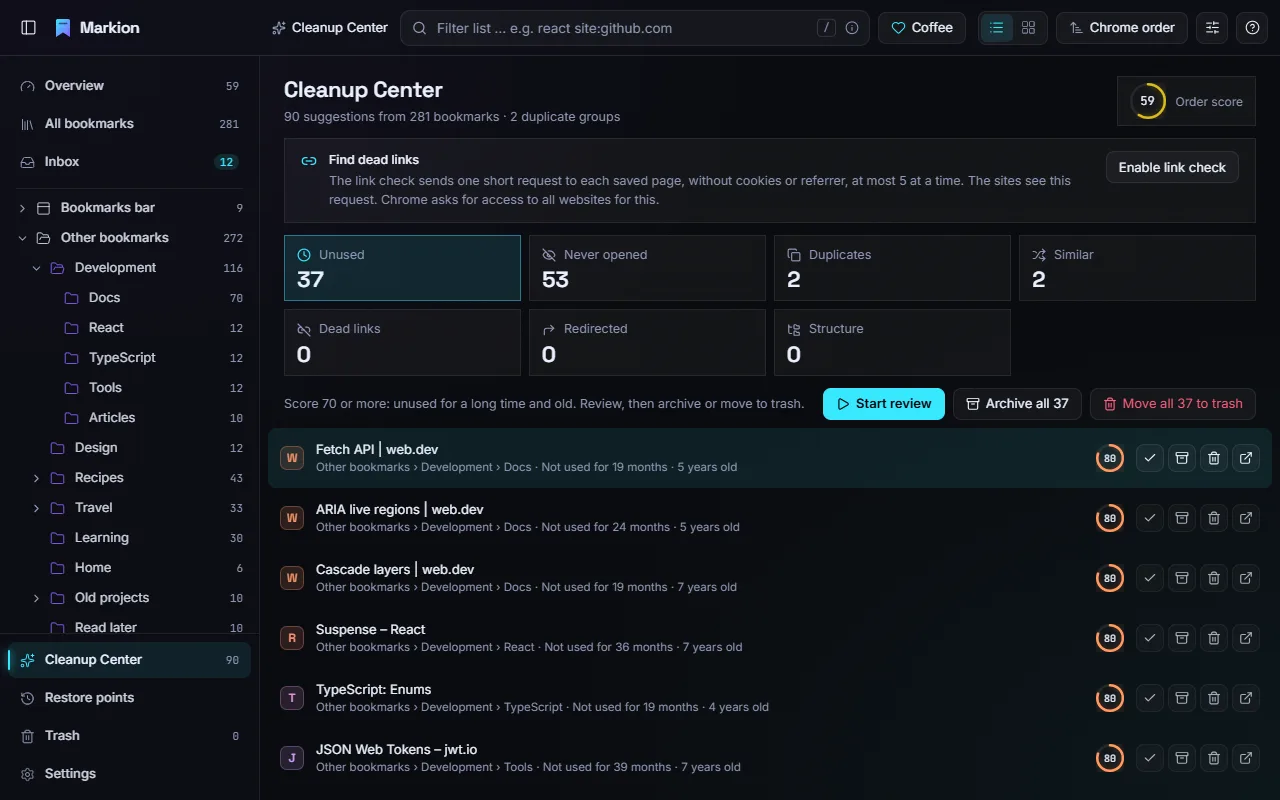
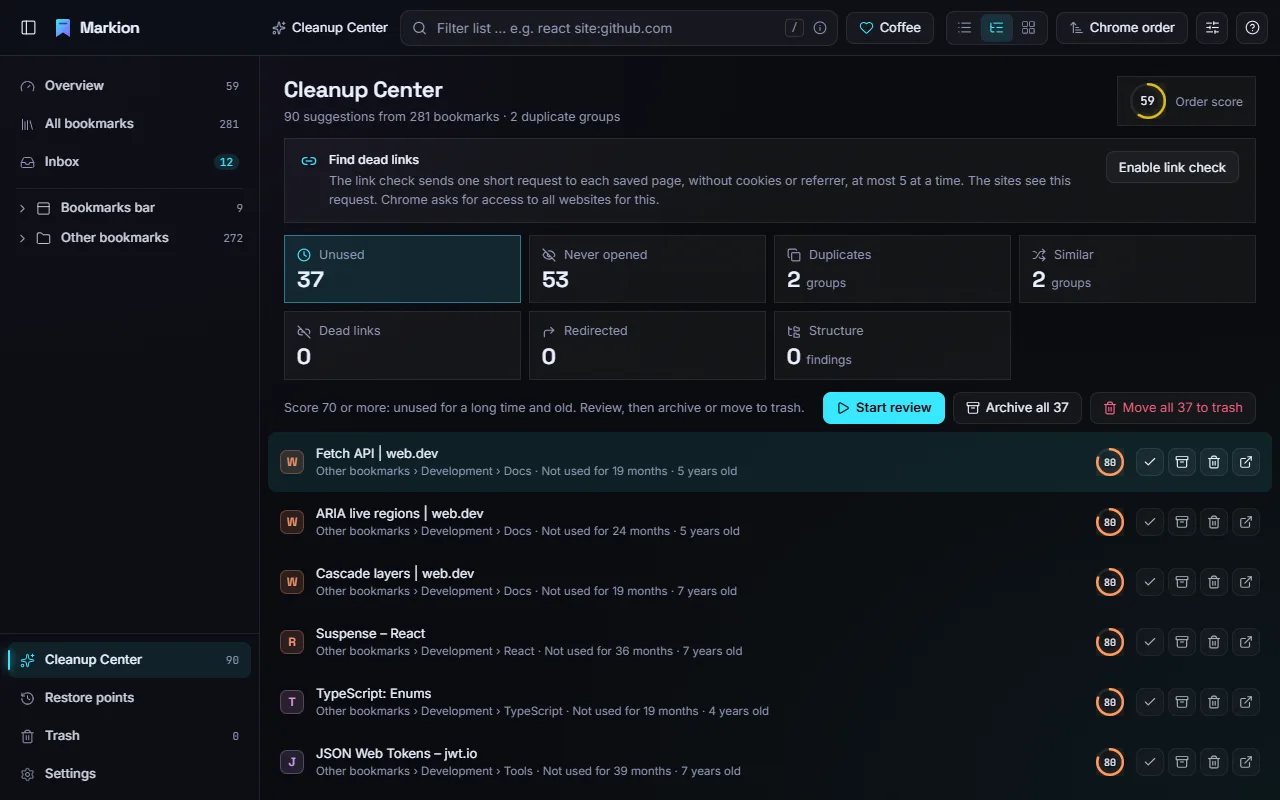
User guide for 1.3.0: tree view, folder picker and themes
New screenshots in Dark Side (S4-01): tree view replaces the list view,
folder tree when moving, collage of the four themes, opaque menus, restore
points with delete, settings with retention and theme.

diff --git a/help/index.html b/help/index.html
@@ -309,22 +309,22 @@
         <h2 id="layout">The workspace</h2>
         <figure>
           <img
-            src="img/1-list.webp"
-            alt="Markion with folder tree, list of bookmarks and detail panel"
+            src="img/1-tree.webp"
+            alt="Markion in tree view with expanded folders, a selected bookmark and the detail panel"
             loading="lazy"
             width="1280"
             height="800"
           />
           <figcaption>
-            Folder tree on the left, list in the middle, details on the right.
+            Sidebar on the left, your bookmarks in tree view in the middle, details on the right.
           </figcaption>
         </figure>
         <ul>
           <li>
             <strong>Top bar</strong>: the path of the current folder, the search field, the
-            <strong>Coffee</strong> button (see <a href="#faq">FAQ</a>), list or card view, sorting,
-            view options (columns, density) and the <strong>?</strong> menu with this guide, the
-            introduction and the shortcut overview.
+            <strong>Coffee</strong> button (see <a href="#faq">FAQ</a>), list, tree or card view,
+            sorting, view options (columns, density) and the <strong>?</strong> menu with this
+            guide, the introduction and the shortcut overview.
           </li>
           <li>
             <strong>Left sidebar</strong>: Overview, All bookmarks, Inbox, your folders, and at the
@@ -332,8 +332,18 @@
             change the width.
           </li>
           <li>
-            <strong>List or cards</strong>: switch with <kbd>V</kbd>. Sort by title, domain, date
-            added, last use or staleness score; “Chrome order” keeps the order you see in Chrome.
+            <strong>List, tree or cards</strong>: switch with <kbd>V</kbd>. Sort by title, domain,
+            date added, last use or staleness score; “Chrome order” keeps the order you see in
+            Chrome. Double-click a bookmark to open it in a new tab; Markion stays open.
+          </li>
+          <li>
+            <strong>Tree view</strong>: shows folders with their subfolders and bookmarks in the
+            middle. Click the arrow or the folder icon to expand or collapse a folder, or use
+            <kbd>→</kbd> and <kbd>←</kbd>.
+            <strong>Expand all</strong> (<kbd>Ctrl</kbd>+<kbd>Shift</kbd>+<kbd>↓</kbd>) and
+            <strong>Collapse all</strong>
+            (<kbd>Ctrl</kbd>+<kbd>Shift</kbd>+<kbd>↑</kbd>) are at the top. Drag bookmarks and
+            folders anywhere in the tree, also from the sidebar. Search results stay a flat list.
           </li>
           <li>
             <strong>Detail panel</strong>: opens when you select a bookmark. It shows the folder,
@@ -504,7 +514,9 @@
             over a closed folder opens it after a moment. <kbd>Esc</kbd> cancels the drag.
           </li>
           <li>
-            Press <kbd>M</kbd> to move the selection with the palette: type a folder name and press
+            Press <kbd>M</kbd> to move the selection: a folder tree opens with your recently used
+            folders on top. Use the arrow keys (<kbd>→</kbd>/<kbd>←</kbd> expand and collapse), or
+            type a folder name to see the matches with their parent folders, then press
             <kbd>Enter</kbd>.
           </li>
           <li>
@@ -524,6 +536,18 @@
             folder path.
           </li>
         </ul>
+        <figure>
+          <img
+            src="img/move-picker.webp"
+            alt="Two bookmarks selected, with the folder tree for moving them filtered to the folder Articles"
+            loading="lazy"
+            width="1280"
+            height="800"
+          />
+          <figcaption>
+            Moving with <kbd>M</kbd>: type to find the target folder in the tree.
+          </figcaption>
+        </figure>
         <h3>Edit and create</h3>
         <ul>
           <li><kbd>F2</kbd> renames a bookmark or folder or edits its address.</li>
@@ -699,6 +723,11 @@
             </tr>
           </tbody>
         </table>
+        <p>
+          Hover over a category tile (or reach it with <kbd>Tab</kbd>) to see what its number
+          counts. Duplicates and similar addresses count <em>groups</em>, structure counts
+          <em>findings</em>; dead links and redirects need the optional link check.
+        </p>
         <h3>The staleness score</h3>
         <p>
           Each bookmark gets a score from 0 to 100. It rises the longer you have not used a
@@ -787,7 +816,8 @@
         <p>
           The overview (<kbd>G</kbd> then <kbd>O</kbd>) shows the <strong>order score</strong>, a
           number from 0 to 100 for how tidy your collection is, and tiles with key figures: total,
-          folders, never opened, stale, duplicates, inbox and dead links. Click a tile to go to it.
+          folders, never opened, stale, duplicates, inbox and dead links. Click a tile to go to it;
+          hover over a tile or the score to see what it means and how the score is calculated.
         </p>
         <p>
           The <strong>domain explorer</strong> lists every domain with its number of bookmarks.
@@ -822,7 +852,9 @@
           <li>
             <strong>Restore points</strong> (<kbd>G</kbd> then <kbd>R</kbd>): Markion saves a copy
             of all bookmarks daily when something changed, and always before bulk actions. They are
-            kept for 14 days. You can restore everything or individual folders, and
+            kept for 3 to 14 days (14 by default, adjustable in Settings); the newest one is always
+            kept. You can restore everything or individual folders (<kbd>Enter</kbd>), delete
+            restore points you no longer need (<kbd>Del</kbd>, with undo), and
             <strong>Save now</strong> creates one right away.
           </li>
           <li>
@@ -837,7 +869,7 @@
         <figure>
           <img
             src="img/snapshots.webp"
-            alt="The list of restore points"
+            alt="The list of restore points, an older one selected with its delete and restore buttons"
             loading="lazy"
             width="1280"
             height="800"
@@ -857,8 +889,13 @@
             defaults.
           </li>
           <li>
-            <strong>Inbox, archive and trash</strong>: which folders act as inbox and archive, and
-            how many days deleted items stay in the trash.
+            <strong>Inbox, archive and trash</strong>: which folders act as inbox and archive, how
+            many days deleted items stay in the trash, and how long restore points are kept.
+            Shortening that period asks before deleting older restore points.
+          </li>
+          <li>
+            <strong>Theme</strong>: Dark Side (default), Snow Glow (light), Cyber Phunk or Miami
+            Nights. The change applies right away.
           </li>
           <li>
             <strong>Behavior and appearance</strong>: whether <kbd>Enter</kbd> opens a bookmark in
@@ -881,12 +918,22 @@
         <figure>
           <img
             src="img/settings.webp"
-            alt="The settings page"
+            alt="The settings page with trash and restore point retention and the theme choice"
             loading="lazy"
             width="1280"
             height="800"
           />
-          <figcaption>Settings.</figcaption>
+          <figcaption>Settings: how long items are kept, and the theme.</figcaption>
+        </figure>
+        <figure>
+          <img
+            src="img/themes.webp"
+            alt="The same tree view in the four themes Dark Side, Snow Glow, Cyber Phunk and Miami Nights"
+            loading="lazy"
+            width="1280"
+            height="888"
+          />
+          <figcaption>The four themes.</figcaption>
         </figure>
 
         <h2 id="shortcuts">Keyboard shortcuts</h2>
@@ -970,7 +1017,15 @@
             </tr>
             <tr>
               <td><kbd>V</kbd></td>
-              <td>List or cards</td>
+              <td>List, tree or cards</td>
+            </tr>
+            <tr>
+              <td><kbd>Ctrl</kbd>+<kbd>Shift</kbd>+<kbd>↓</kbd></td>
+              <td>Expand all (tree view)</td>
+            </tr>
+            <tr>
+              <td><kbd>Ctrl</kbd>+<kbd>Shift</kbd>+<kbd>↑</kbd></td>
+              <td>Collapse all (tree view)</td>
             </tr>
             <tr>
               <td><kbd>[</kbd></td>
